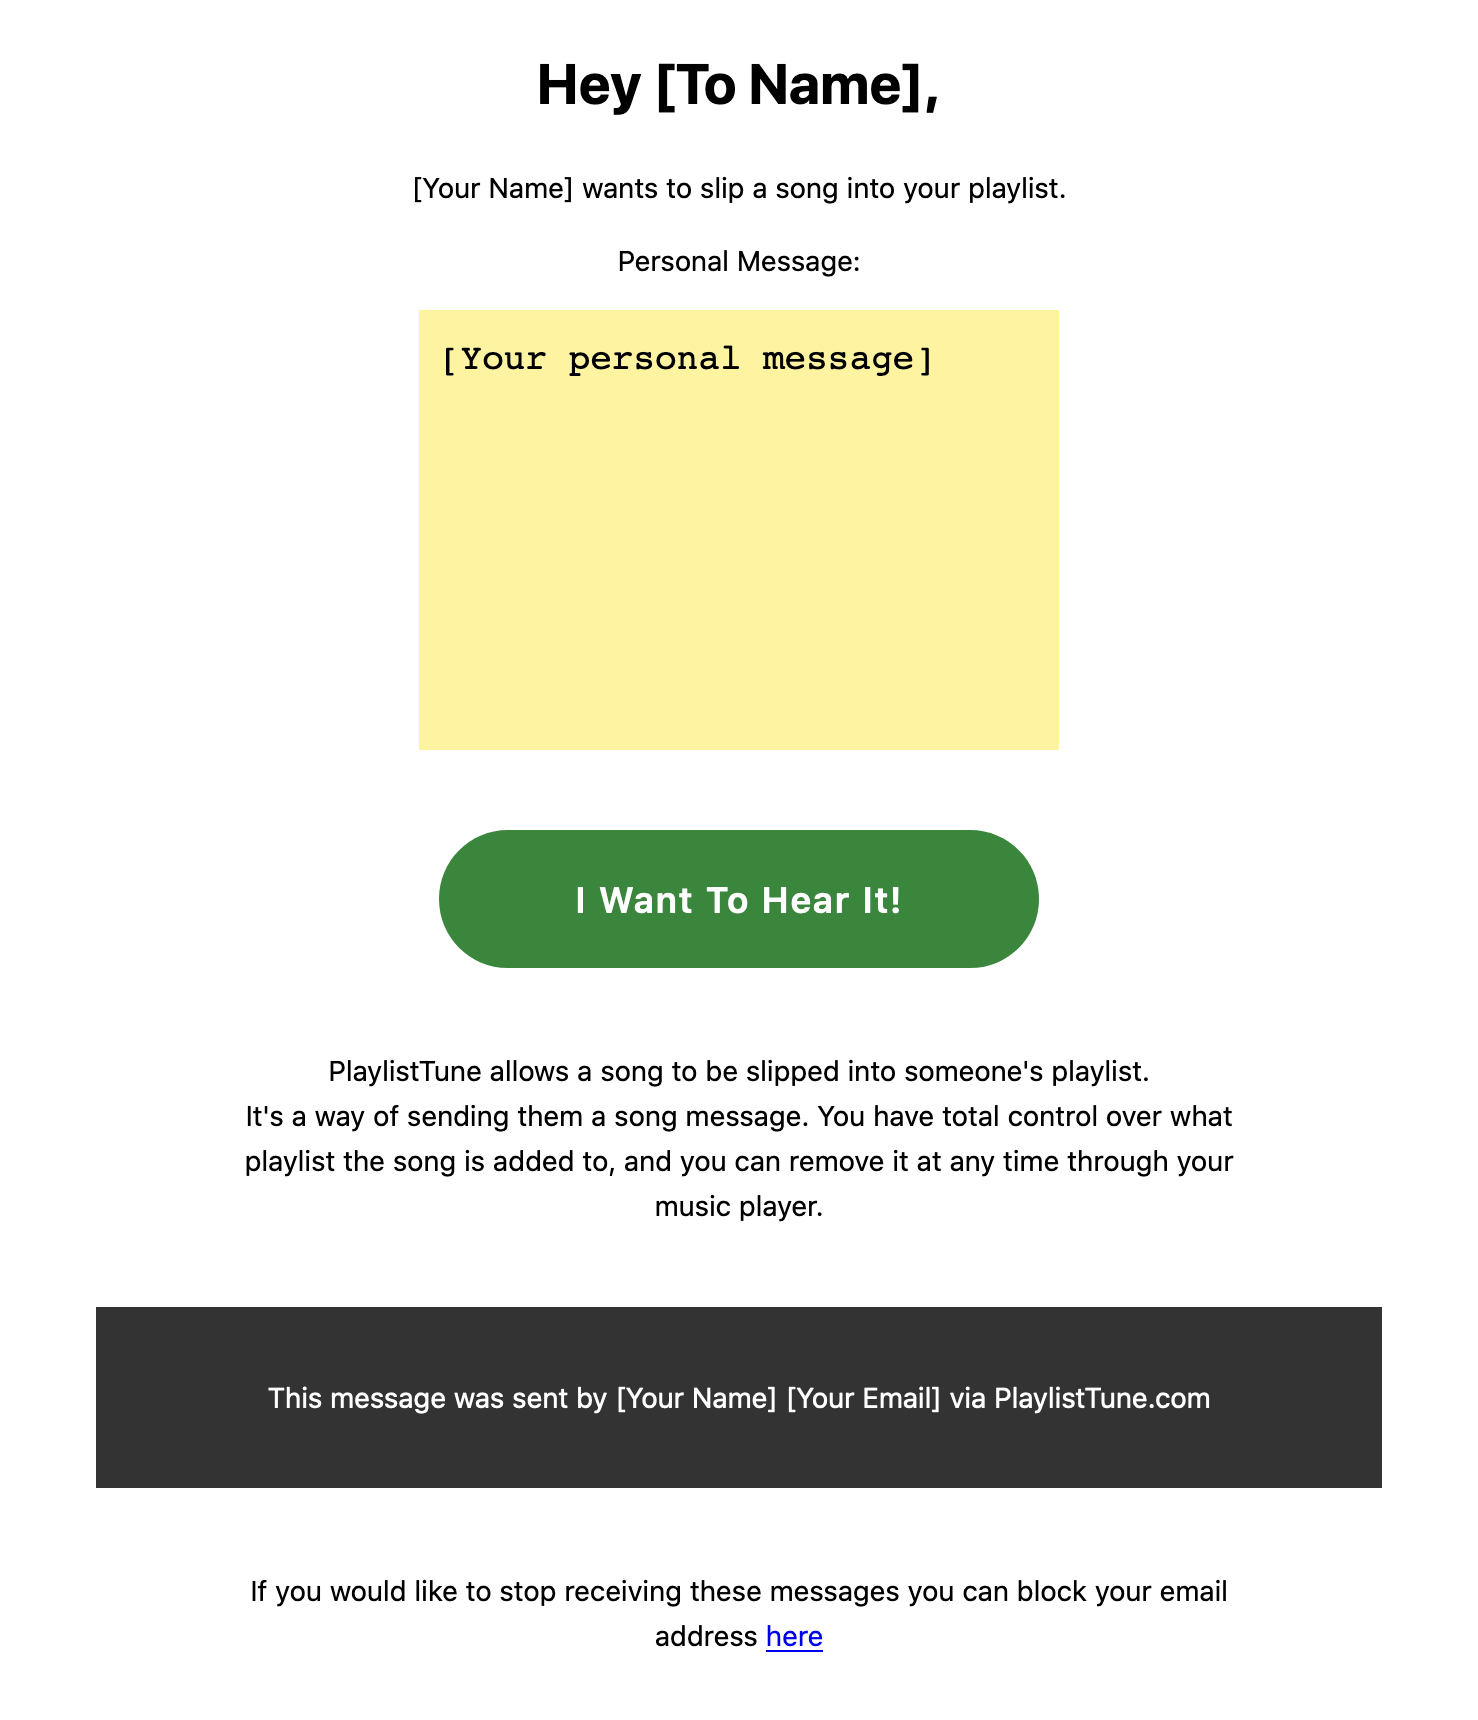
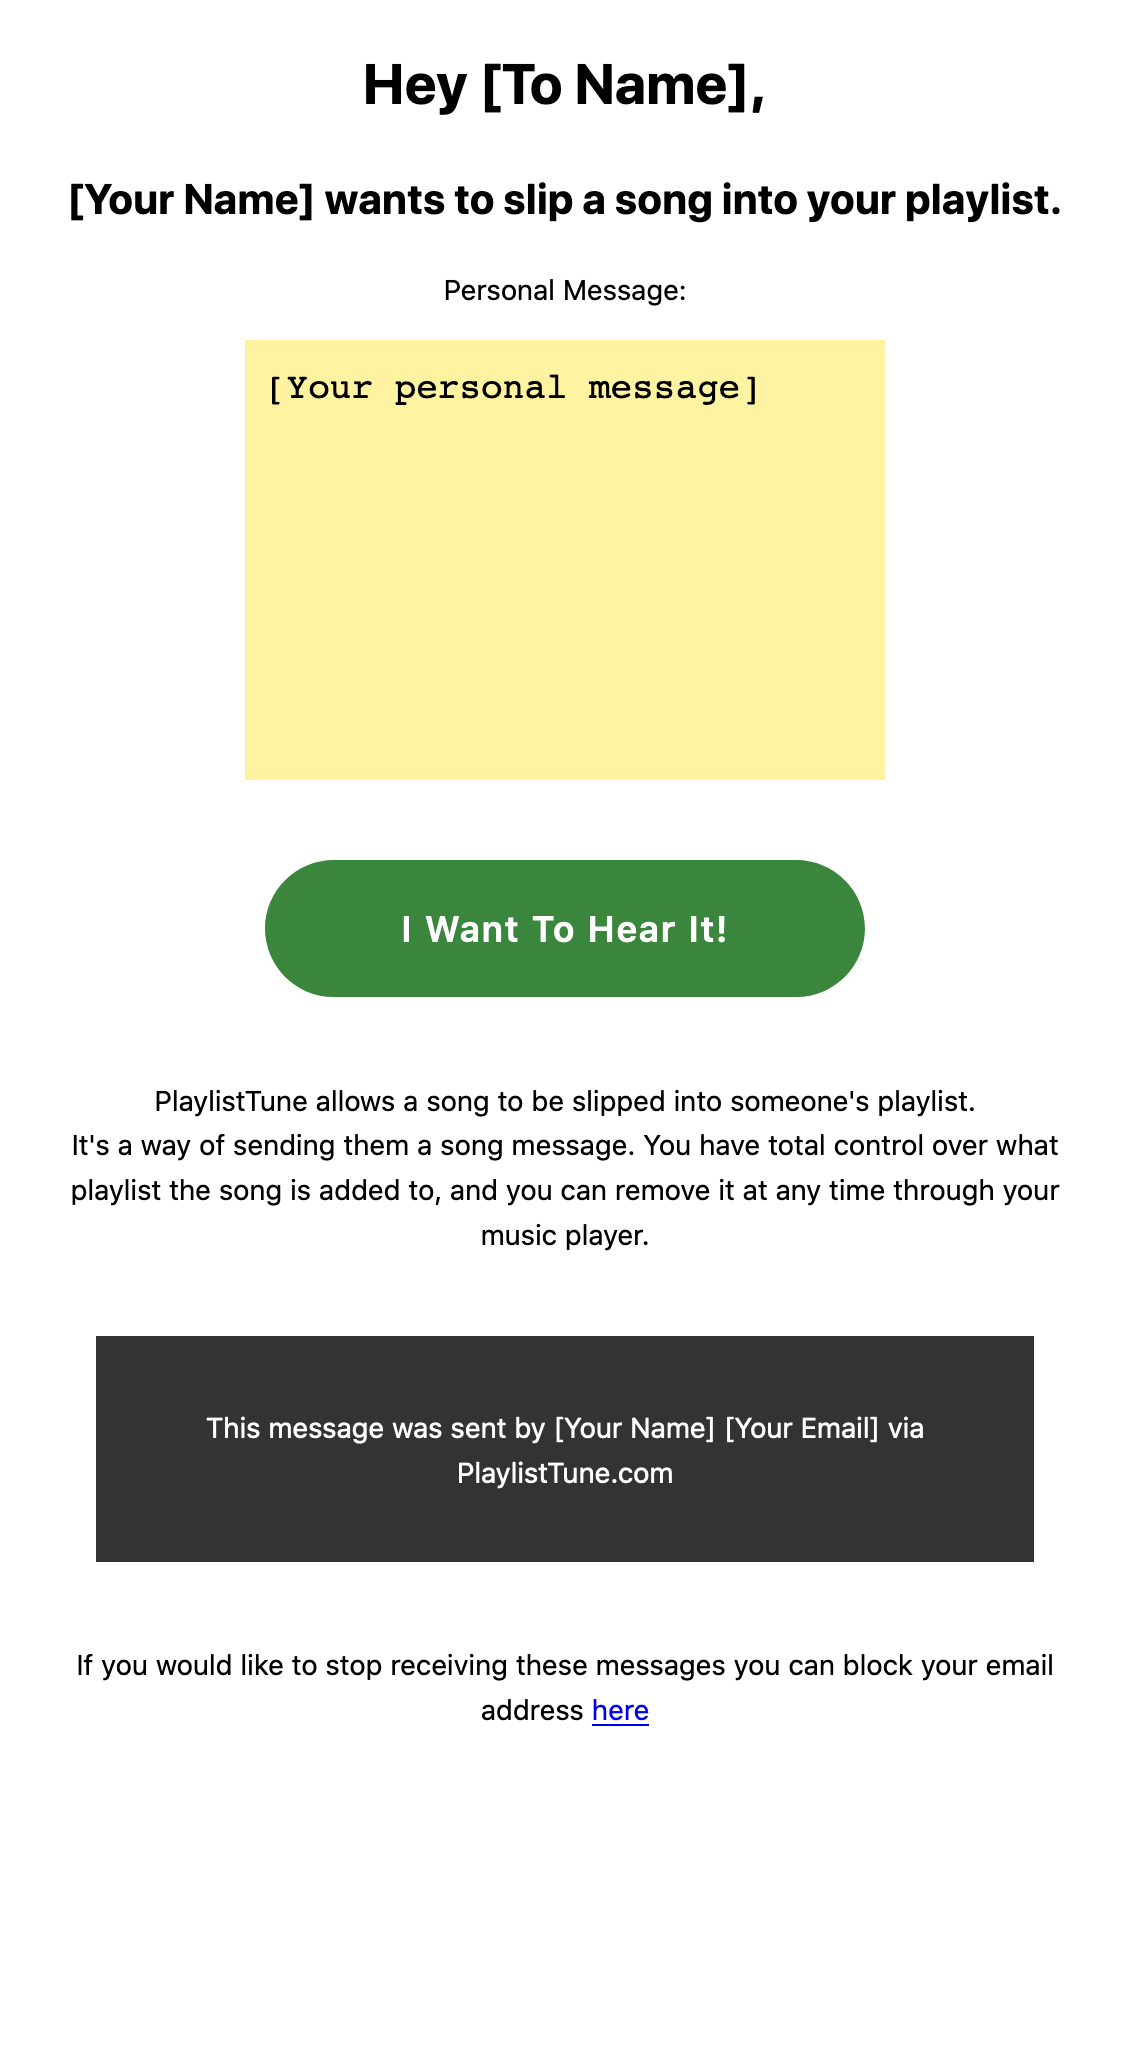
adjust example email

diff --git a/styles/home.module.scss b/styles/home.module.scss
@@ -39,7 +39,8 @@
 }
 
 .exampleEmail {
-  width: 250px;
+  max-height: 320px;
+  max-width: 100%;
   border: 1px solid #dddcdc;
   border-radius: 10px;
 }
